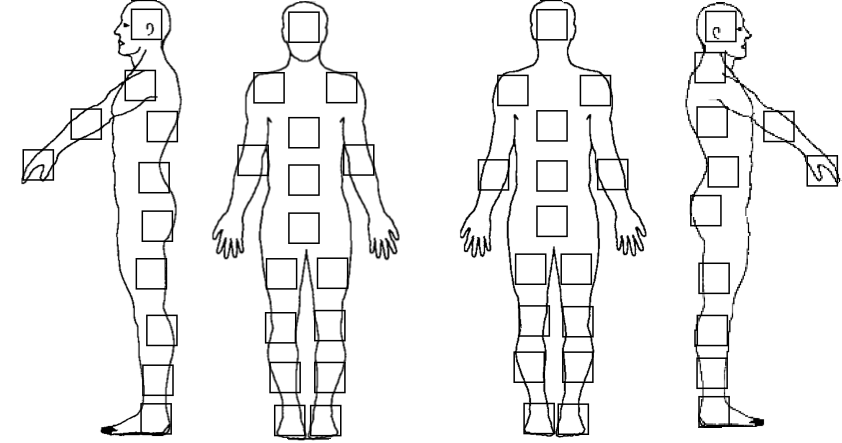
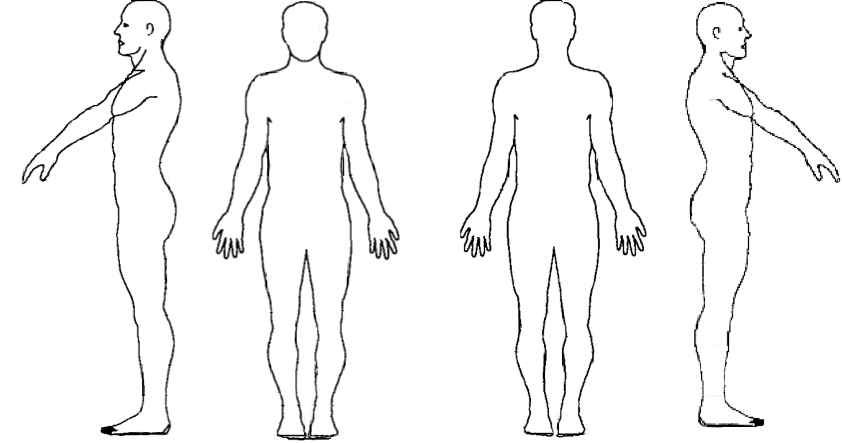
2013-05-21 [5612] ======== (++) complete redesign of PnlInfo. needs to be easier to handle and to match the needs of the TX reports according to the "Essener Modell". (+|) PnlBodyScheme created.

diff --git a/src/op/care/info/PnlBodyScheme.java b/src/op/care/info/PnlBodyScheme.java
@@ -1,0 +1,114 @@
+package op.care.info;
+
+import op.OPDE;
+import op.tools.SYSConst;
+import op.tools.SYSTools;
+
+import javax.imageio.ImageIO;
+import javax.swing.*;
+import java.awt.*;
+import java.awt.event.ItemEvent;
+import java.awt.event.ItemListener;
+import java.awt.image.BufferedImage;
+import java.io.File;
+import java.io.IOException;
+import java.util.Properties;
+
+/**
+ * Created with IntelliJ IDEA.
+ * User: tloehr
+ * Date: 21.05.13
+ * Time: 14:50
+ * To change this template use File | Settings | File Templates.
+ */
+public class PnlBodyScheme extends JPanel {
+
+    public static final String[] NAMES = new String[]{"head.left.side", "shoulder.left.side", "upper.back.left.side", "ellbow.left.side", "hand.left.side", "hip.left.side", "bottom.left.side", "upper.leg.left.side",
+            "lower.leg.left.side", "calf.left.side", "heel.left.side", "face", "shoulder.front.right", "shoulder.front.left", "upper.belly", "crook.arm.right",
+            "crook.arm.left", "lower.belly", "groin", "upper.leg.right.front", "upper.leg.left.front", "knee.right", "knee.left", "shin.right.front", "shin.left.front",
+            "foot.right.front", "foot.left.front", "back.of.the.head", "shoulder.back.left", "shoulder.back.right", "back.mid", "ellbow.left",
+            "ellbow.right", "back.low", "bottom", "upper.leg.left.back", "upper.leg.right.back", "knee.hollow.left", "knee.hollow.right", "calf.left",
+            "calf.right", "foot.right.back", "foot.left.back", "head.right.side", "shoulder.right.side", "back.upper.left.side", "ellbow.right.side",
+            "hand.right.side", "hip.right.side", "bottom.right.side", "upper.leg.right.side", "lower.leg.right.side", "calf.right.side", "heel.right.side"};
+
+    BufferedImage bimg;
+    Point[] cbPositions;
+    Properties selection;
+
+
+    public PnlBodyScheme(Properties selection) {
+        this.selection = selection;
+        try {
+            bimg = ImageIO.read(new File(this.getClass().getResource("/artwork/body-scheme.png").getPath()));
+        } catch (IOException e) {
+            OPDE.fatal(e);
+        }
+
+        int width = bimg.getWidth();
+        int height = bimg.getHeight();
+        setSize(new Dimension(width, height));
+        setPreferredSize(new Dimension(width, height));
+
+        initPanel();
+
+    }
+
+    private void initPanel() {
+
+//        cbTooltips = new String[]{"Kopf, linke Seite", "Schulter, links", "Rücken, linke Seite, oben", "Ellenbogen, links", "Hand, links", "Hüfte, links", "Gesäß, linke Seite", "Oberschenkel, links",
+//                "Unterschenkel, links", "Wade, links", "Ferse, links", "Gesicht", "Schulter, rechts, vorne (aus Pat. Sicht)", "Schulter, links, vorne (aus Pat. Sicht)", "Bauch, oben", "Armbeuge, rechts",
+//                "Armbeuge, links", "Bauch, unten", "Genitalbereich", "Oberschenkel, rechts, vorne", "Oberschenkel, links, vorne", "Knie, rechts", "Knie, links", "Schienbein, rechts, vorne", "Schienbein, links, vorne",
+//                "Fuß, rechts, vorne", "Fuß, links, vorne", "Hinterkopf", "Schulter, links, hinten (aus Pat. Sicht)", "Schulter, rechts, hinten (aus Pat. Sicht)", "Rücken, mitte", "Ellenbogen, links",
+//                "Ellenbogen, rechts", "Rücken, unten", "Gesäß", "Oberschenkel, links, hinten", "Oberschenkel, rechts, hinten", "Kniekehle, links", "Kniekehle, rechts", "Wade, links",
+//                "Wade, rechts", "Fuß, rechts, hinten", "Fuß, links, hinten", "Kopf, rechte Seite", "Schulter, rechte Seite", "Rücken, oben, rechte Seite", "Ellenbogen, rechte Seite",
+//                "Hand, rechte Seite", "Hüfte, rechte Seite", "Gesäß, rechte Seite", "Oberschenkel, rechte Seite", "Unterschenkel, rechte Seite", "Wade, rechte Seite", "Ferse, rechte Seite"};
+
+
+        cbPositions = new Point[]{
+        /* left side */
+                new Point(130, 8), new Point(124, 69), new Point(146, 110), new Point(70, 108), new Point(22, 149), new Point(138, 161), new Point(141, 210), new Point(135, 258), new Point(146, 314),
+                new Point(142, 365), new Point(140, 403),
+                /* Front side */
+                new Point(288, 12), new Point(253, 72), new Point(325, 72), new Point(288, 117), new Point(237, 144), new Point(344, 144), new Point(288, 164), new Point(288, 212), new Point(266, 258),
+                new Point(317, 258), new Point(265, 312), new Point(314, 312), new Point(269, 363), new Point(314, 363), new Point(274, 404), new Point(310, 404),
+                /* Back side */
+                new Point(536, 9), new Point(497, 75), new Point(579, 75), new Point(536, 110), new Point(477, 159), new Point(596, 159), new Point(537, 161), new Point(536, 205), new Point(514, 253), new Point(560, 253),
+                new Point(518, 305), new Point(562, 305), new Point(513, 351), new Point(562, 351), new Point(523, 402), new Point(557, 403),
+                /* right side */
+                new Point(705, 11), new Point(700, 69), new Point(696, 107), new Point(763, 107), new Point(806, 155), new Point(707, 157), new Point(691, 196), new Point(698, 262), new Point(696, 314), new Point(696, 358),
+                new Point(698, 397)};
+
+        setLayout(null);
+
+        for (int i = 0; i < cbPositions.length; i++) {
+
+            final JCheckBox jcb = new JCheckBox((String) null);
+            jcb.setToolTipText(OPDE.lang.getString(NAMES[i]));
+            jcb.setName(NAMES[i]);
+            jcb.setBorder(null);
+            jcb.setContentAreaFilled(false);
+            jcb.setSelected(SYSTools.catchNull(selection.getProperty(jcb.getName())).equalsIgnoreCase("true"));
+            jcb.addItemListener(new ItemListener() {
+                @Override
+                public void itemStateChanged(ItemEvent e) {
+                    selection.put(jcb.getName(), Boolean.toString(jcb.isSelected()));
+                }
+            });
+            add(jcb);
+            jcb.setBounds(cbPositions[i].x, cbPositions[i].y, 32, 32);
+            jcb.setSelectedIcon(SYSConst.icon32ledRedOn);
+            jcb.setIcon(SYSConst.icon32ledGrey);
+        }
+        selection = new Properties();
+    }
+
+    public Properties getSelection() {
+        return selection;
+    }
+
+
+    @Override
+    public void paintComponent(Graphics g) {
+        g.drawImage(bimg, 0, 0, getWidth(), getHeight(), this);
+    }
+}

diff --git a/src/op/tools/SYSConst.java b/src/op/tools/SYSConst.java
@@ -563,6 +563,8 @@ public class SYSConst {
     public static final Icon icon22pdca = new ImageIcon(SYSConst.class.getResource("/artwork/22x22/pdca.png"));
     public static final Icon icon22RedFlag = new ImageIcon(SYSConst.class.getResource("/artwork/22x22/flag.png"));
     public static final Icon icon22ledRedOn = new ImageIcon(SYSConst.class.getResource("/artwork/22x22/ledred.png"));
+    public static final Icon icon32ledRedOn = new ImageIcon(SYSConst.class.getResource("/artwork/32x32/ledred.png"));
+    public static final Icon icon32ledGrey = new ImageIcon(SYSConst.class.getResource("/artwork/32x32/ledgrey.png"));
     public static final Icon icon22ledRedOff = new ImageIcon(SYSConst.class.getResource("/artwork/22x22/leddarkred.png"));
     public static final Icon icon22ledYellowOn = new ImageIcon(SYSConst.class.getResource("/artwork/22x22/ledyellow.png"));
     public static final Icon icon22ledYellowOff = new ImageIcon(SYSConst.class.getResource("/artwork/22x22/leddarkyellow.png"));
@@ -598,6 +600,8 @@ public class SYSConst {
     public static final Icon icon22colorset = new ImageIcon(SYSConst.class.getResource("/artwork/22x22/bw/colorset.png"));
     public static final Icon icon22colorsetPressed = new ImageIcon(SYSConst.class.getResource("/artwork/22x22/bw/colorset_pressed.png"));
     public static final Icon icon22allergy = new ImageIcon(SYSConst.class.getResource("/artwork/22x22/allergy.png"));
+    public static final Icon icon32selected = new ImageIcon(SYSConst.class.getResource("/artwork/32x32/bw/selected.png"));
+    public static final Icon icon32unselected = new ImageIcon(SYSConst.class.getResource("/artwork/32x32/bw/unselected.png"));
     public static final Icon gfx259x203medic0 = new ImageIcon(SYSConst.class.getResource("/artwork/other/medicine0.png"));
     public static final Icon gfx259x203medic1 = new ImageIcon(SYSConst.class.getResource("/artwork/other/medicine1.png"));
     public static final Icon gfx259x203medic2 = new ImageIcon(SYSConst.class.getResource("/artwork/other/medicine2.png"));

diff --git a/src/op/OPDE.java b/src/op/OPDE.java
@@ -31,6 +31,7 @@ import entity.files.SYSFilesTools;
 import entity.nursingprocess.DFNTools;
 import entity.prescription.BHPTools;
 import entity.system.*;
+import op.care.info.PnlBodyScheme;
 import op.system.AppInfo;
 import op.system.EMailSystem;
 import op.system.LogicalPrinters;
@@ -651,9 +652,25 @@ public class OPDE {
              *                                               \_\/_/
              */
 
-            SYSTools.checkForSoftwareupdates();
-            mainframe = new FrmMain();
-            mainframe.setVisible(true);
+
+
+        JFrame frm = new JFrame();
+            frm.setDefaultCloseOperation(WindowConstants.EXIT_ON_CLOSE);
+            frm.setLayout(new FlowLayout());
+
+                    frm.getContentPane().add(new PnlBodyScheme(new Properties()));
+
+                    frm.setVisible(true);
+
+//            SYSTools.checkForSoftwareupdates();
+//
+//
+//
+//            mainframe = new FrmMain();
+//
+//
+//
+//            mainframe.setVisible(true);
 
         }
     }
